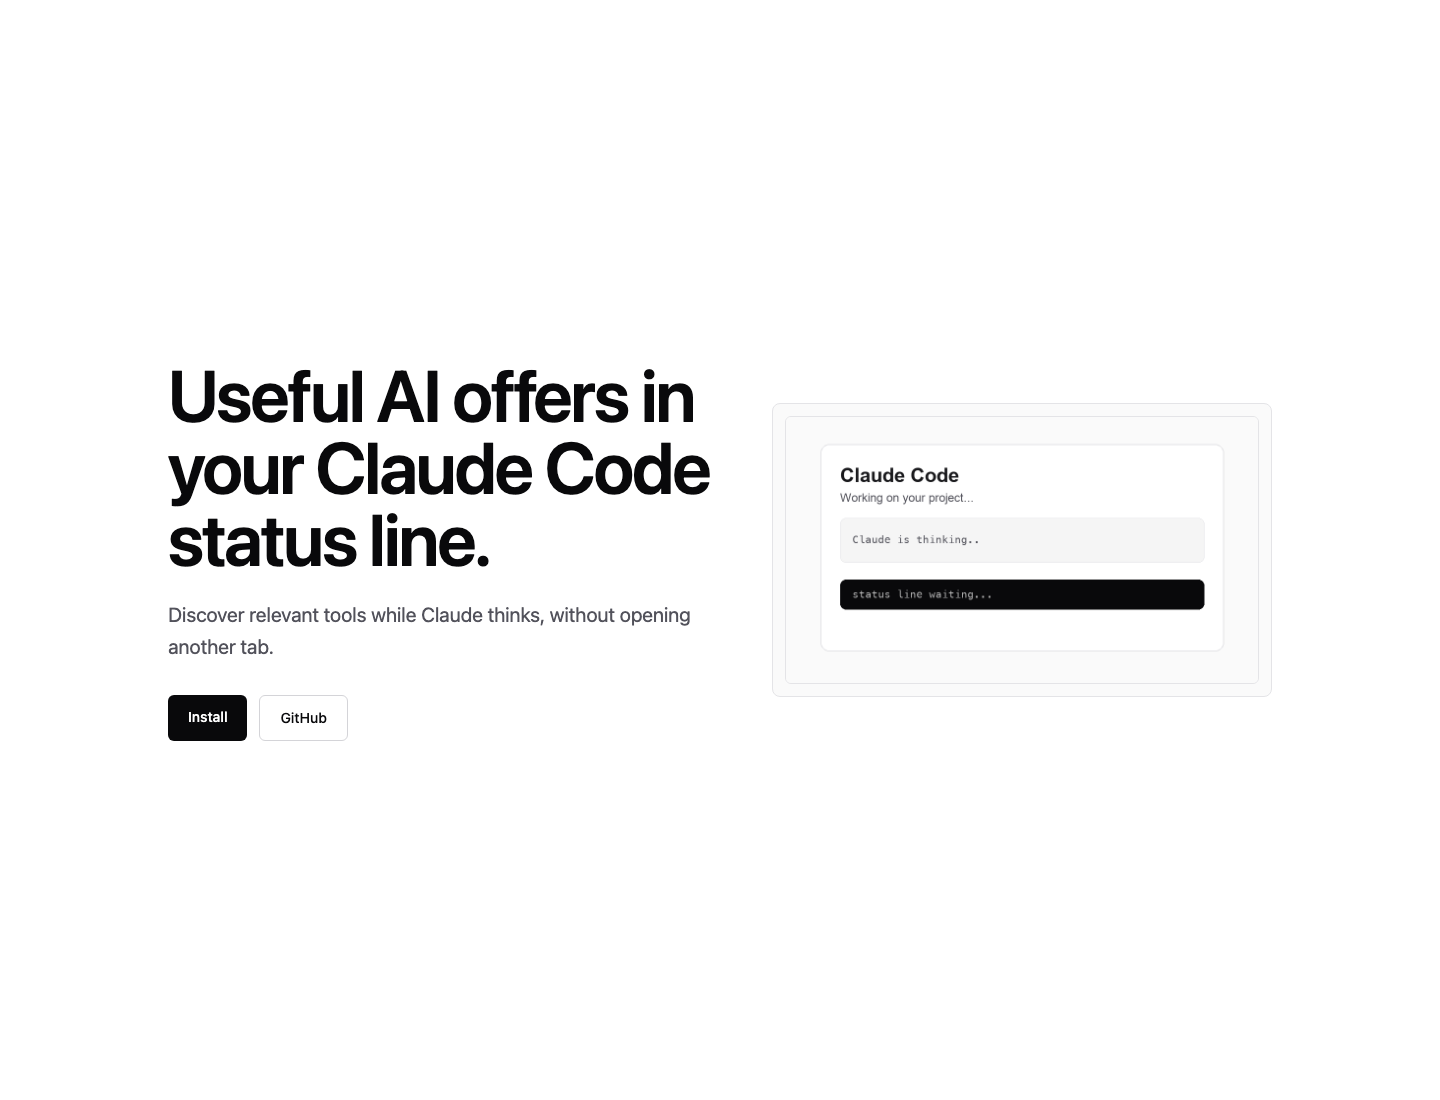
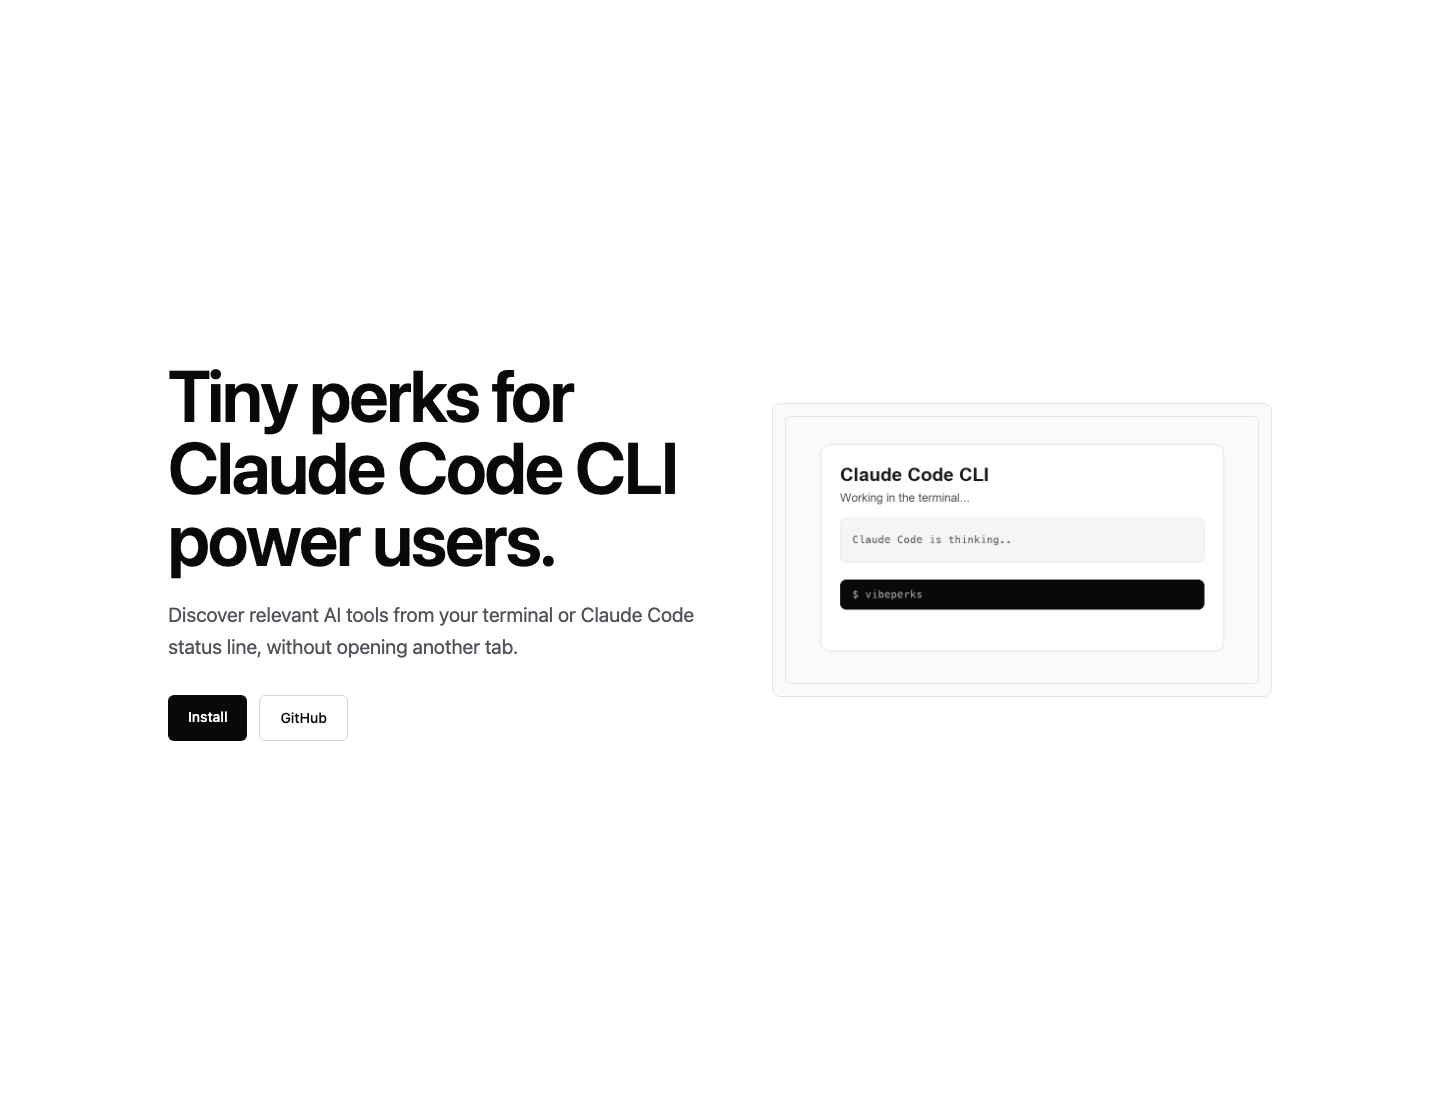
Clarify Claude Code CLI positioning

diff --git a/app/page.tsx b/app/page.tsx
@@ -30,8 +30,8 @@ const exampleOffers = [
 const benefits = [
   "No context switching",
   "Useful AI tools",
-  "Quiet status line",
-  "Built for Claude Code"
+  "Quiet terminal output",
+  "Built for Claude Code CLI"
 ];
 
 export default function HomePage() {
@@ -40,11 +40,11 @@ export default function HomePage() {
       <section className="mx-auto grid min-h-screen max-w-6xl items-center gap-12 px-6 py-16 lg:grid-cols-[1fr_0.9fr]">
         <div>
           <h1 className="max-w-3xl text-5xl font-semibold tracking-tight md:text-7xl">
-            Useful AI offers in your Claude Code status line.
+            Tiny perks for Claude Code CLI power users.
           </h1>
           <p className="mt-6 max-w-xl text-xl leading-8 text-zinc-600">
-            Discover relevant tools while Claude thinks, without opening another
-            tab.
+            Discover relevant AI tools from your terminal or Claude Code status
+            line, without opening another tab.
           </p>
           <div className="mt-8 flex flex-wrap gap-3">
             <a
@@ -88,10 +88,10 @@ export default function HomePage() {
                 <h3 className="text-xl font-semibold">{step}</h3>
                 <p className="mt-3 text-zinc-600">
                   {index === 0
-                    ? "Add VibePerks to your Claude Code status line."
+                    ? "Run VibePerks in your terminal or Claude Code CLI status line."
                     : null}
                   {index === 1
-                    ? "Keep building while Claude handles the heavy thinking."
+                    ? "Keep building while Claude Code handles the heavy thinking."
                     : null}
                   {index === 2
                     ? "Notice useful AI offers without opening another tab."

diff --git a/README.md b/README.md
@@ -6,7 +6,7 @@
 ![Supabase](https://img.shields.io/badge/Supabase-ready-3ecf8e.svg)
 ![Alpha](https://img.shields.io/badge/status-alpha-orange.svg)
 
-Install VibePerks to discover useful AI tools in your Claude Code status line without leaving your flow.
+Install VibePerks to discover useful AI tools from your terminal or Claude Code CLI status line without leaving your flow.
 
 ![VibePerks demo](public/demo.gif)
 
@@ -17,7 +17,13 @@ npm install
 npm run dev
 ```
 
-Add VibePerks to Claude Code:
+Use it as a terminal command:
+
+```bash
+npm run cli
+```
+
+Or add it to Claude Code CLI status line:
 
 ```json
 {
@@ -30,10 +36,12 @@ Add VibePerks to Claude Code:
 
 Done.
 
+> VibePerks integrates with Claude Code CLI status line. It does not install inside Claude Desktop or the Claude web app.
+
 ## Why?
 
-- Find relevant AI tools while Claude Code is already working.
-- Keep discovery inside a tiny status line, not another tab.
+- Find relevant AI tools while Claude Code CLI is already working.
+- Keep discovery inside a tiny terminal/status-line surface, not another tab.
 - Stay focused: one useful offer, no feed, no dashboard.
 
 ## Privacy
@@ -46,7 +54,7 @@ Done.
 
 ![Landing page](public/screenshot-landing.png)
 
-![Claude Code status line](public/screenshot-status-line.png)
+![Claude Code CLI status line](public/screenshot-status-line.png)
 
 ## Quick Start
 
@@ -158,11 +166,13 @@ VIBEPERKS_API_URL=https://your-domain.com npm run cli
 
 If the API is unavailable, the CLI prints nothing and exits without an error.
 
-## Claude Code Integration
+## Claude Code CLI Integration
 
 Claude Code supports a `statusLine` command in its settings. The command receives
 Claude Code session data through stdin and displays whatever the command writes to
 stdout.
+
+This is for Claude Code CLI. It is not a Claude Desktop extension.
 
 For a deployed API:
 